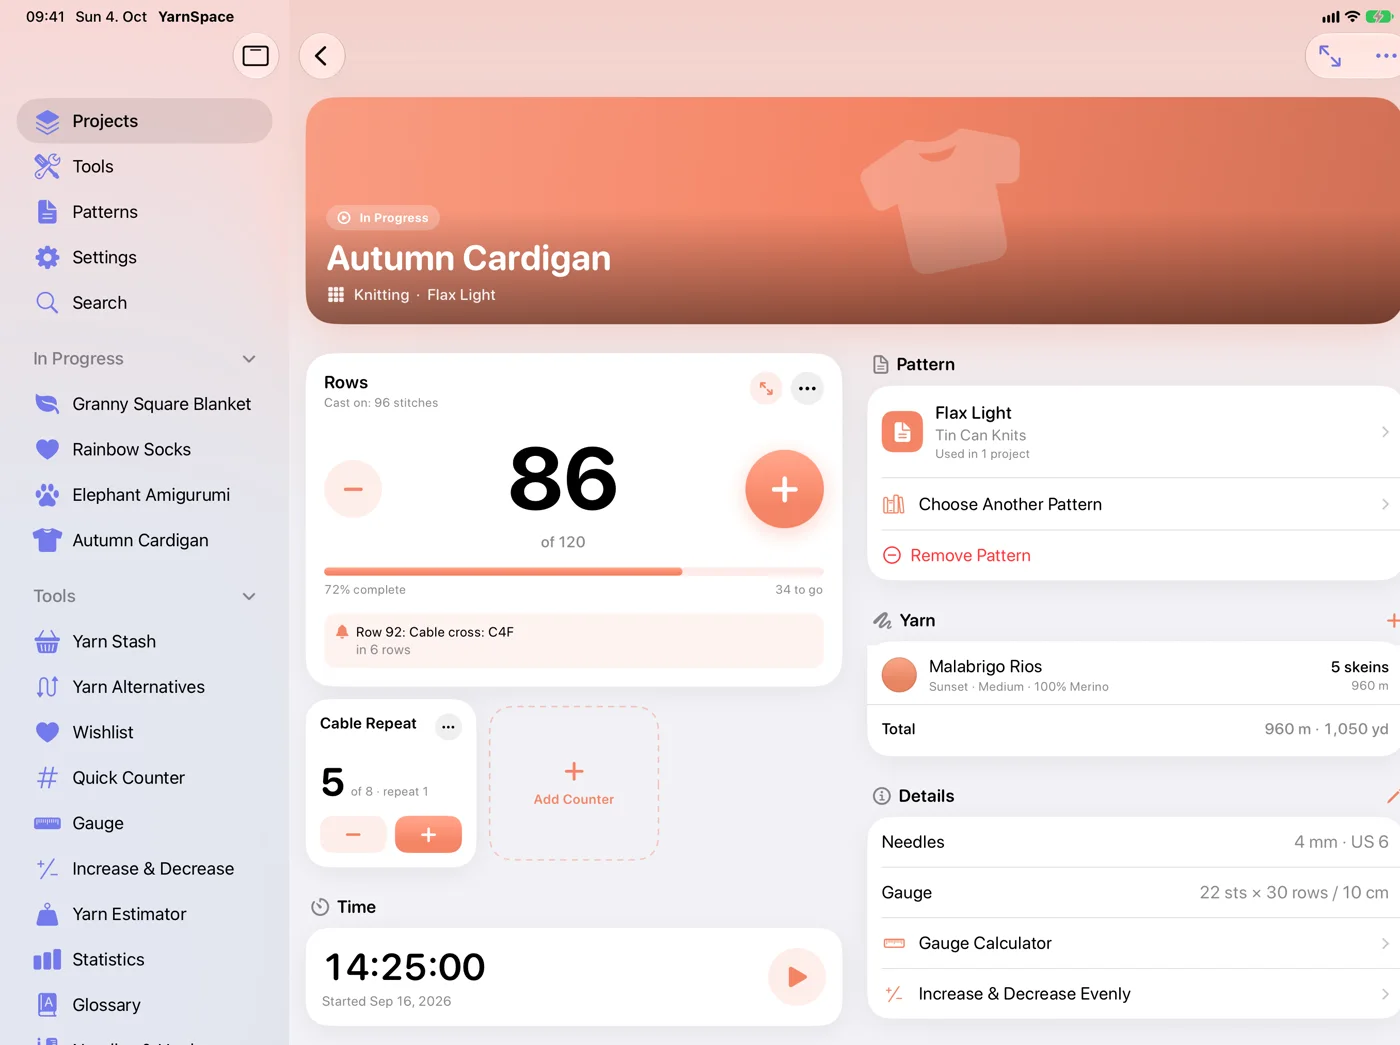
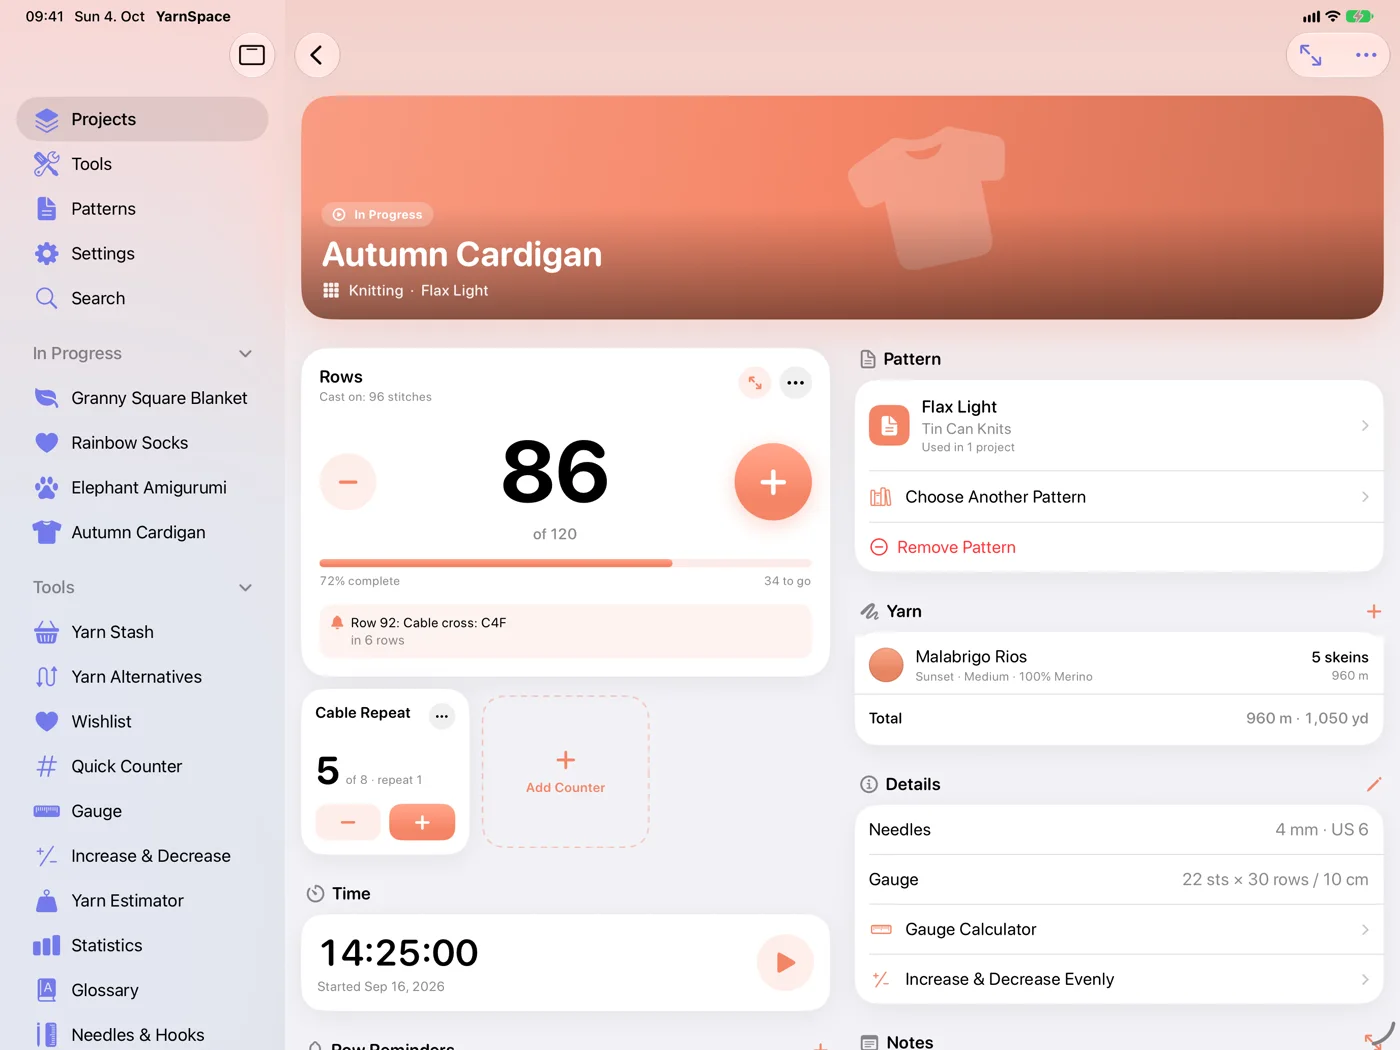
fixed screenshot

diff --git a/de/index.html b/de/index.html
@@ -107,7 +107,7 @@
                         <div class="screen"><div class="wallpaper"><img src="../assets/img/shots/de-mac-home.webp" width="1400" height="949" alt="YarnSpace auf dem Mac: die Projektübersicht mit Seitenleiste" fetchpriority="high"></div></div>
                         <div class="base"></div>
                     </div>
-                    <div class="ipad"><img src="../assets/img/shots/de-ipad-project.webp" width="1400" height="1045" alt="YarnSpace auf dem iPad: ein Projekt mit Reihenzähler, Anleitung, Garn und Details"></div>
+                    <div class="ipad"><img src="../assets/img/shots/de-ipad-project.webp" width="1400" height="1050" alt="YarnSpace auf dem iPad: ein Projekt mit Reihenzähler, Anleitung, Garn und Details"></div>
                     <div class="iphone"><img src="../assets/img/shots/de-iphone-home.webp" width="600" height="1304" alt="YarnSpace auf dem iPhone: die Projektübersicht"></div>
                 </div>
             </div>

diff --git a/index.html b/index.html
@@ -107,7 +107,7 @@
                         <div class="screen"><div class="wallpaper"><img src="assets/img/shots/en-mac-home.webp" width="1400" height="949" alt="YarnSpace on a Mac: the projects overview with sidebar" fetchpriority="high"></div></div>
                         <div class="base"></div>
                     </div>
-                    <div class="ipad"><img src="assets/img/shots/en-ipad-project.webp" width="1400" height="1045" alt="YarnSpace on iPad: a project with its row counter, pattern, yarn and details"></div>
+                    <div class="ipad"><img src="assets/img/shots/en-ipad-project.webp" width="1400" height="1050" alt="YarnSpace on iPad: a project with its row counter, pattern, yarn and details"></div>
                     <div class="iphone"><img src="assets/img/shots/en-iphone-home.webp" width="600" height="1304" alt="YarnSpace on iPhone: the projects overview"></div>
                 </div>
             </div>
